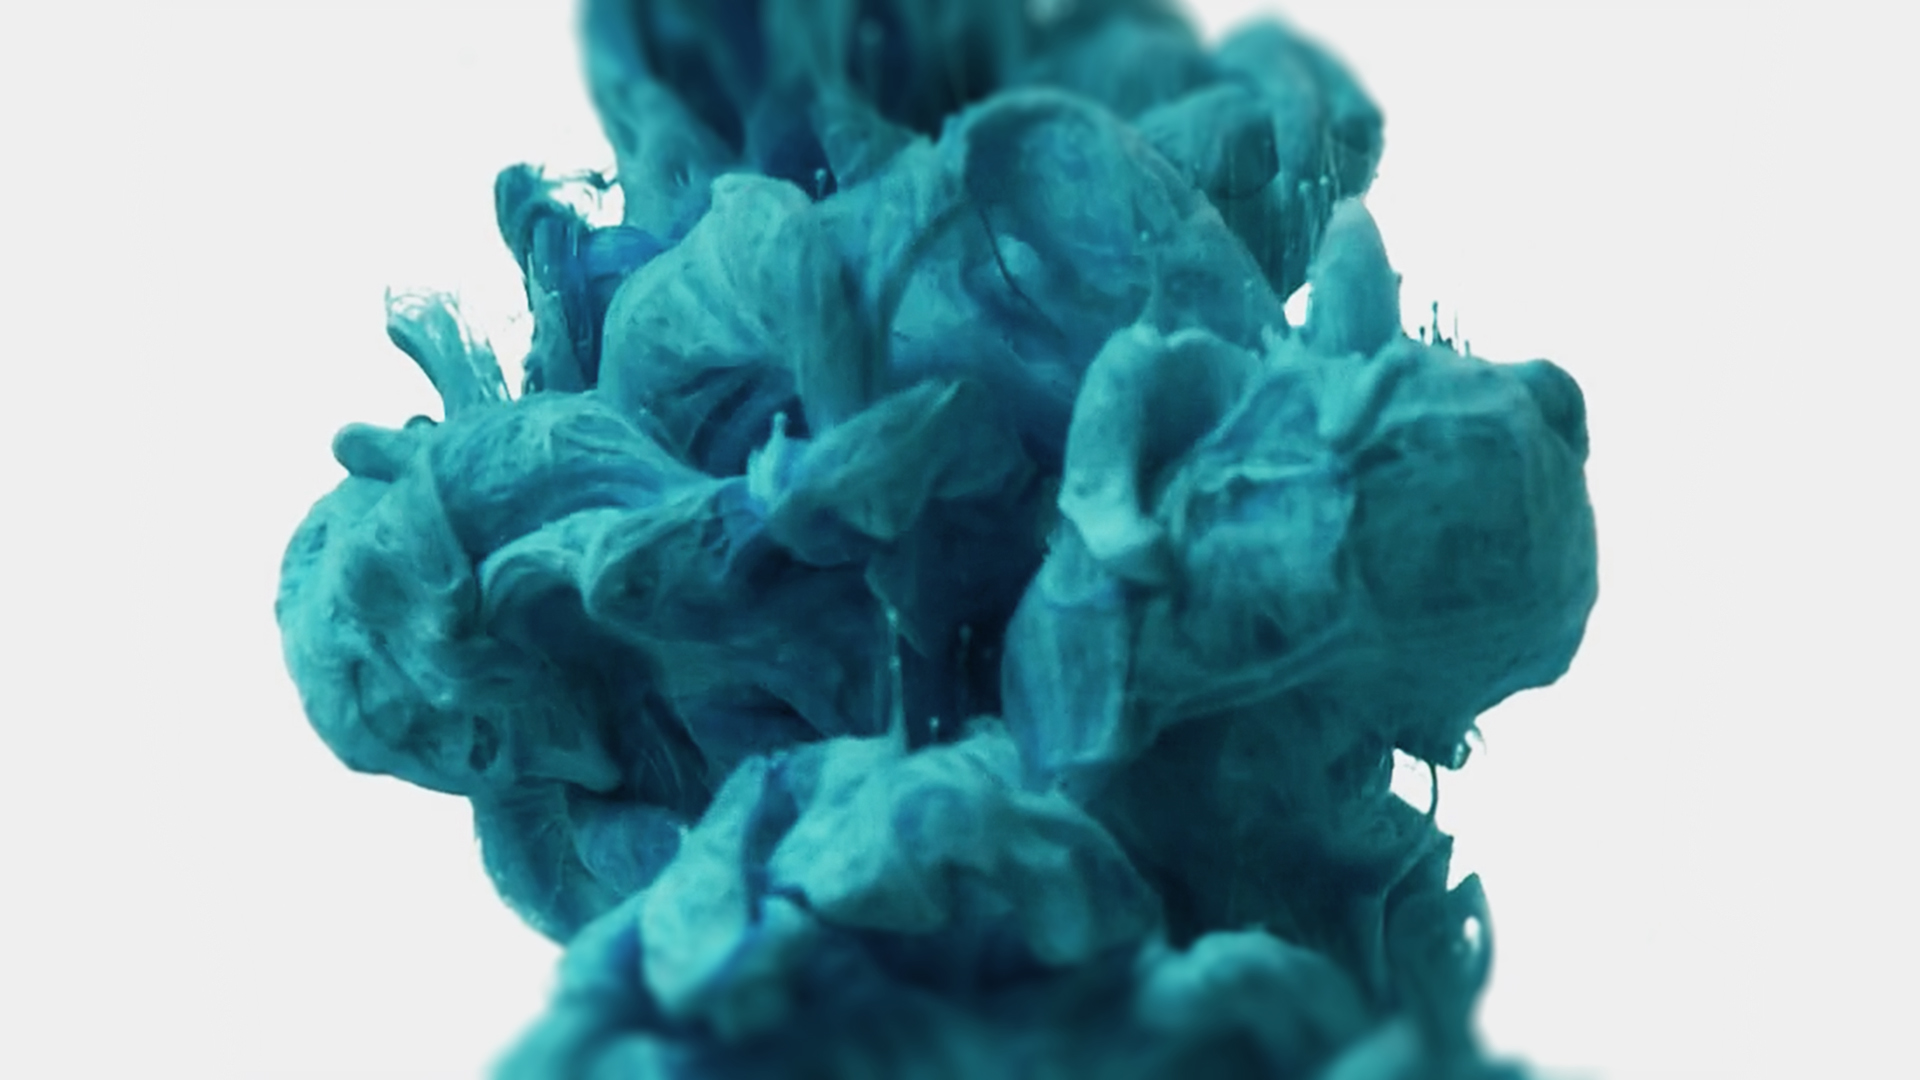
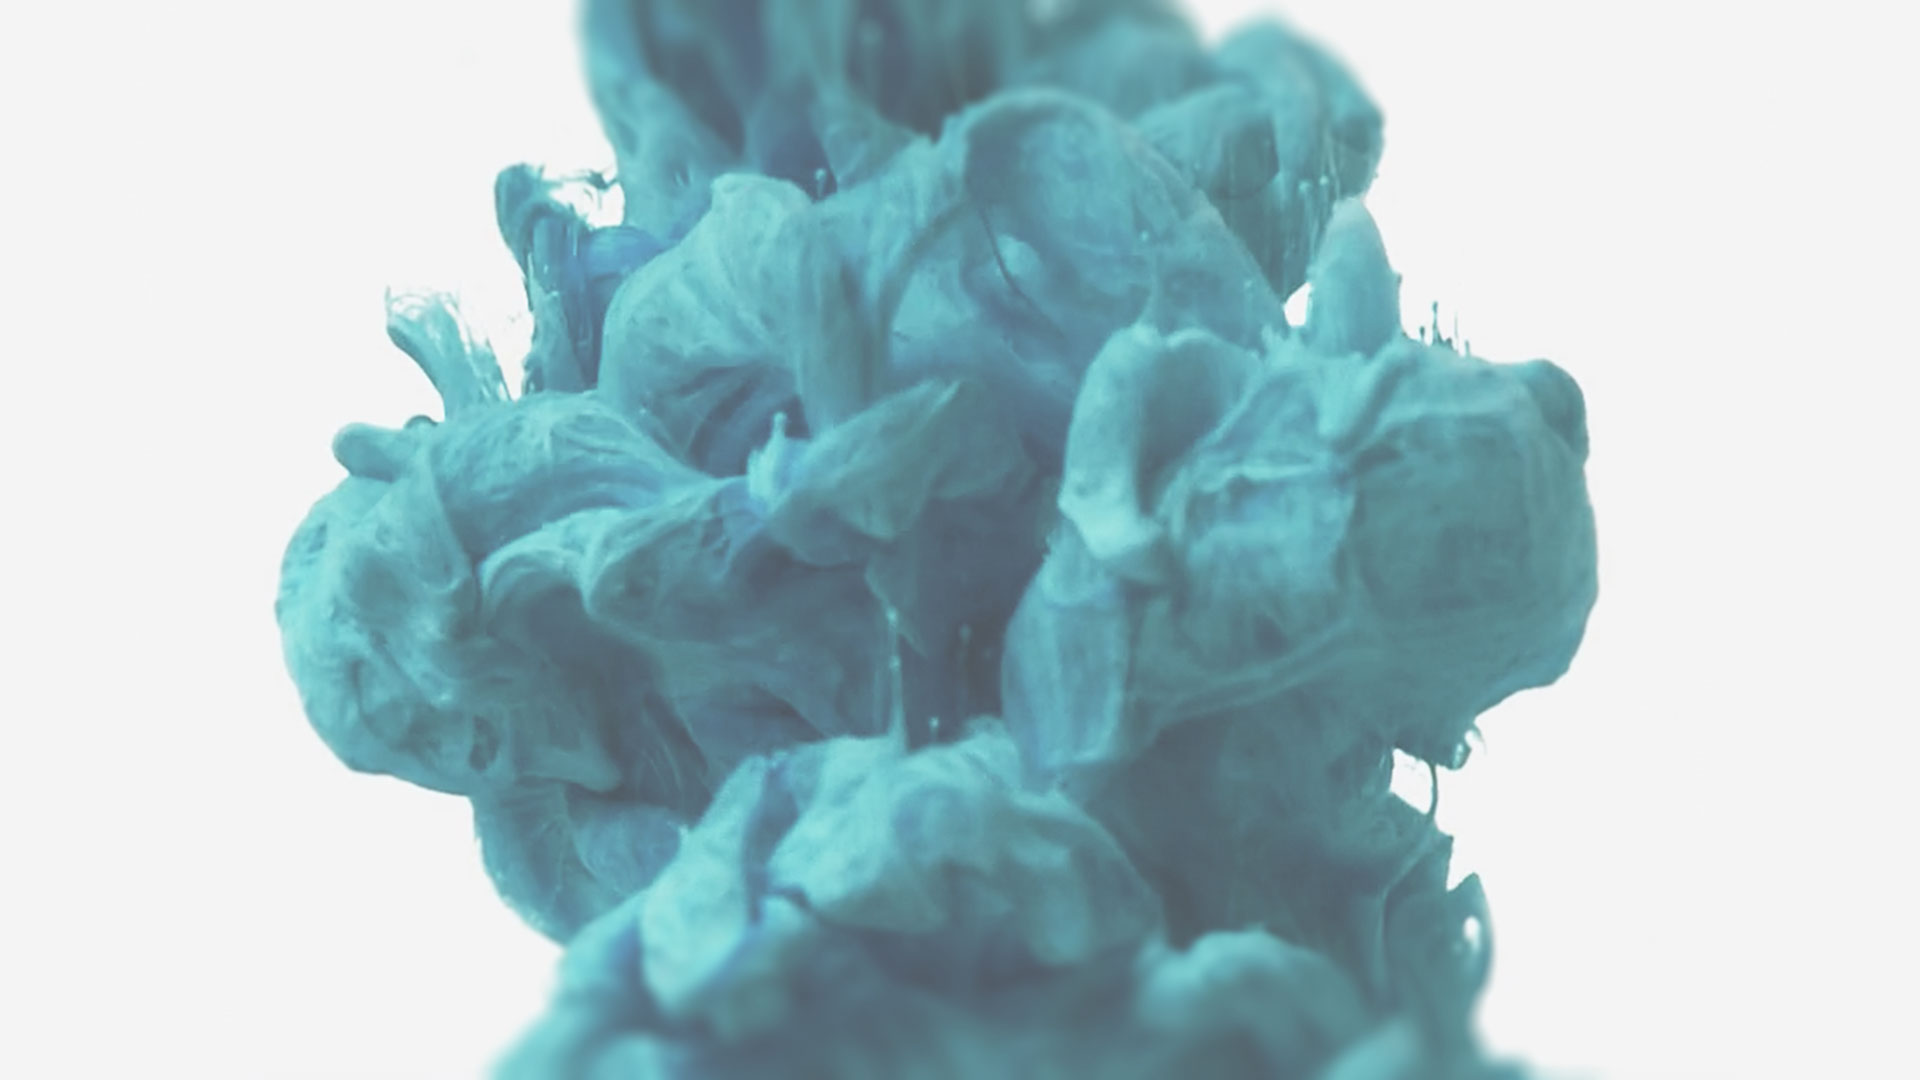
made mod3 & generate images lighter and shadows on images brighter.

diff --git a/resources/assets/scss/pages/visualise/_visualise.scss b/resources/assets/scss/pages/visualise/_visualise.scss
@@ -246,8 +246,8 @@
     .image {
         width: 195px;
         height: 129px;
-        background: rgba($grey, 0.9);
-        box-shadow: 0 0 30px rgba($fontColour, 0.05);
+        background: rgba($grey, 0.95);
+        box-shadow: 0 0 30px rgba($fontColour, 0.08);
         display: flex;
         justify-content: center;
         flex-direction: column;
